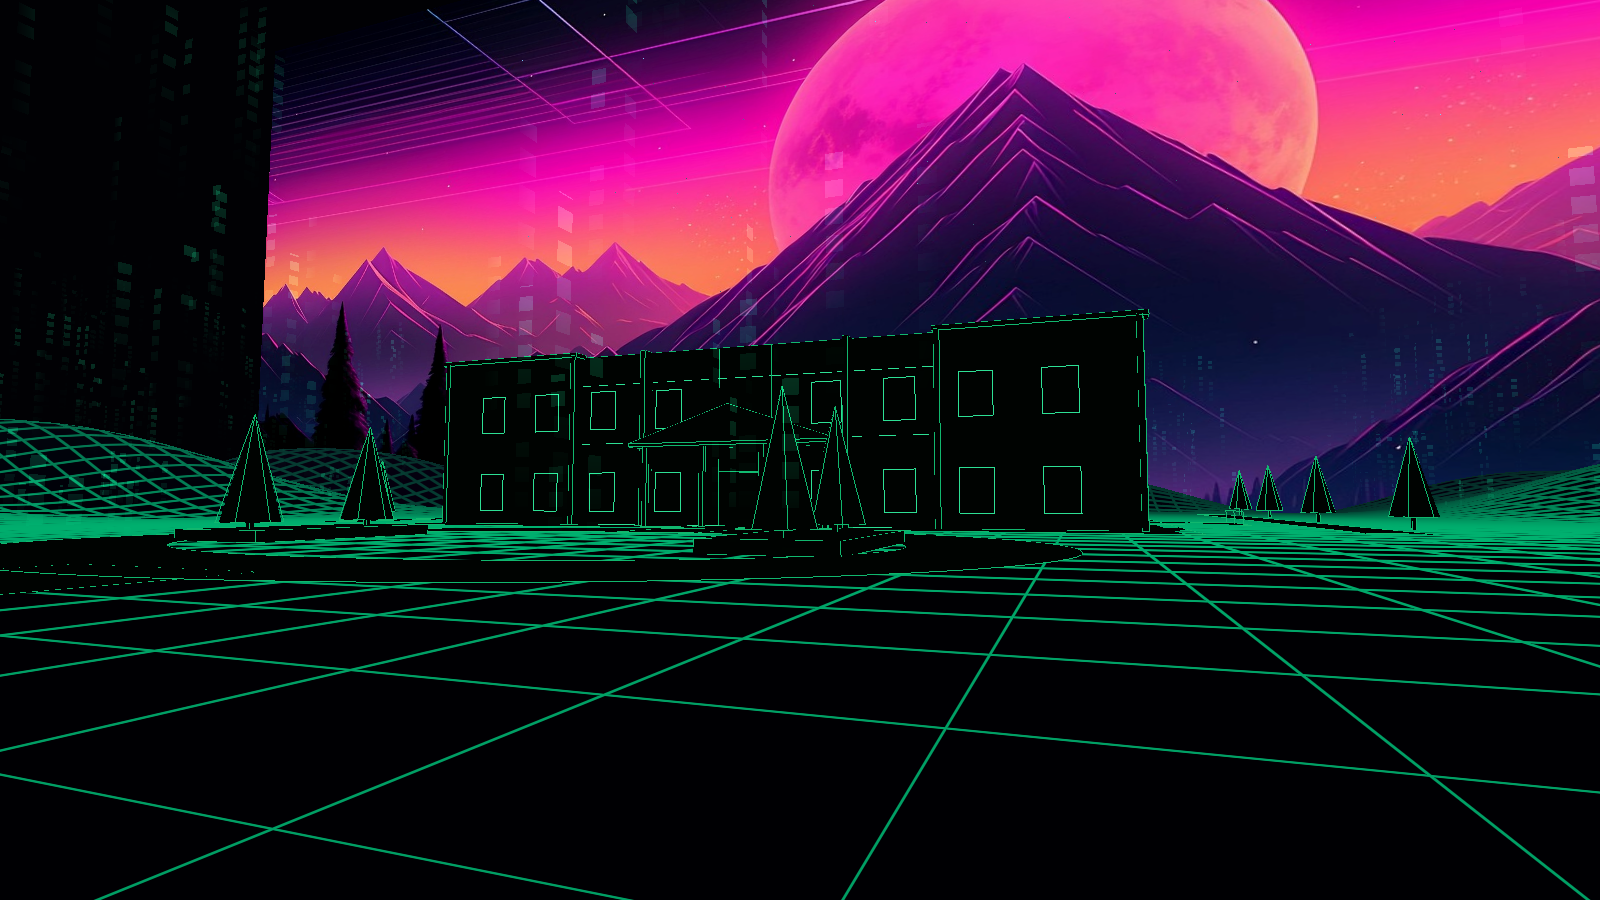
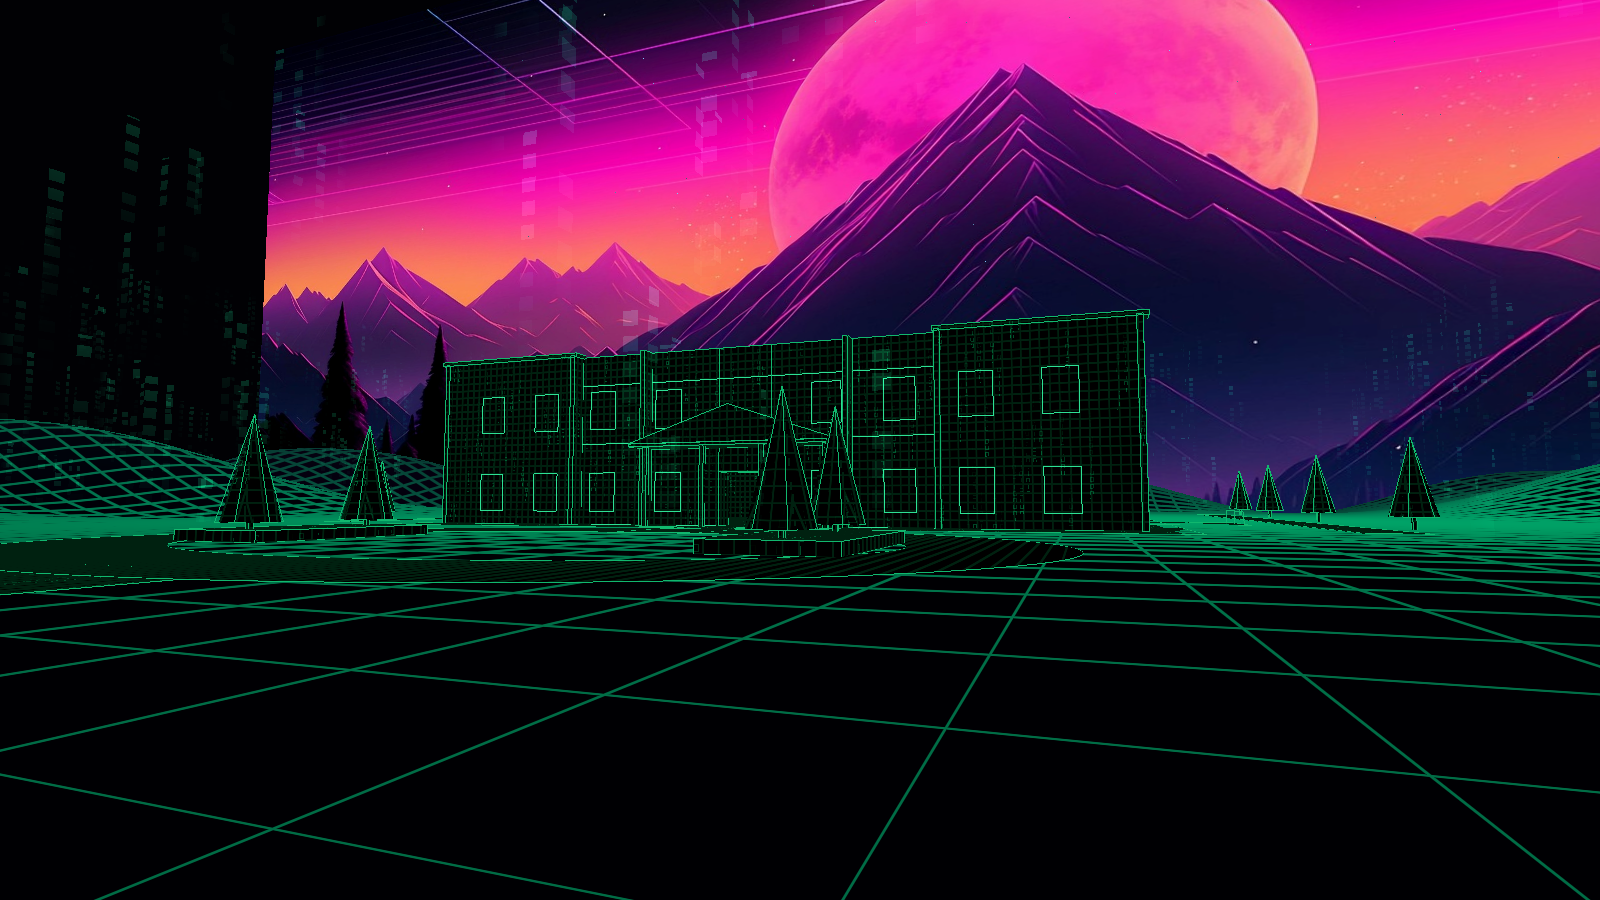
Add reusable emerald grid and glitch wall material

diff --git a/HANDOVER.md b/HANDOVER.md
@@ -107,3 +107,8 @@ Verified actual Godot windowed eye-height capture, normal exit and no script/sha
 James requested green door/window outlines and a less box-like mansion with garden/driveway. Recoloured all mansion outlines to emerald/mint, including roof lines. Added outward facade bays/cornices/piers and a triangular entrance pediment, curved garden colonnade and terrace rails without subtracting any reserved room volume. Main blueprint roof/envelope retained; fit conflict remains unresolved.
 Added an original exterior landscape proposal: oval driveway loop with central planting, straight arrival drive and light posts, rear axial/cross garden paths with four beds, side paths and original wireframe conifer forms. Flattened the terrain across the grounds so paths sit on it; surrounding hills remain. No imported packs or new licence dependencies.
 Validation: Godot eye-height and elevated site renders exited successfully with no script/shader errors. Added outline depth bias for surface overlap. --site selects the elevated review camera; captures/mansion_site.png shows the arrangement. This is exterior dressing, not completed rooms or playable FPS movement. No new gameplay hooks.
+
+### 14 October 2026 — adjustable emerald surface animation
+James kept the existing mansion outlines and requested finer squares plus emerald glitch animation over black areas/all walls, based on the supplied HTML. Added materials/emerald_surface.gdshader and mansion_emerald.tres, replacing the mansion dark material while preserving independent edge outlines. Default world grid spacing0.55m, native procedural binary streams, subtle band glitches and pulse. Applies to mansion walls/roof and dark grounds meshes sharing that material. This does not change physical building scale or room reservations.
+Reusable Godot Inspector tool: grid spacing/brightness, rain speed/density/brightness, symbol size, glitch strength, pulse and colours. Duplicate material for independent surfaces; optional UV mapping with virtual dimensions supports screen/background quads. Instructions in materials/README.md. No game HUD/editor dock or forbidden UI system built.
+Re-read HTML effect controls/stream code. This is a native adaptation, not embedded HTML/full generator: emojis, sacred glyphs, mouse modes and nightmare mode triggers are not ported. Godot actual eye-height capture completed without script/shader errors; appearance inspected. Wall enclosure issue and first-person controller remain outstanding.

diff --git a/previews/exterior/materials/README.md b/previews/exterior/materials/README.md
@@ -1,0 +1,6 @@
+# Emerald surface tool
+Open mansion_emerald.tres in Godot's Inspector. Shader Parameters expose grid spacing (metres), grid/rain brightness, speed (positive rises, negative falls), density, symbol size, glitch strength, pulse speed, base and effect colours.
+Duplicate this material with Make Unique before adjusting another wall or scene independently. Assign it to any MeshInstance3D Material Override. World-space projection keeps the 0.55 metre squares consistent across scaled meshes and walls. The shader handles horizontal surfaces and either vertical wall axis.
+For a background or screen QuadMesh, enable Use UV and set UV Size Metres to its desired virtual size. This is a reusable editor material tool, not a game HUD/menu. UV projection is preferable on strongly curved art surfaces. World projection uses dominant-axis mapping.
+Based on the supplied HTML's emerald palette, brightness/speed/density controls and mutating luminous streams. This is a native procedural Godot adaptation using binary glyphs; it does not embed the HTML, emojis, sacred symbols, mouse interaction or all its modes. No bloom or reflections required. Existing edge outlines remain separate.
+All mansion surfaces using the dark base material receive it, including walls, roof and dark landscape props/path surfaces. Outdoor free-standing upward rain remains independent.
